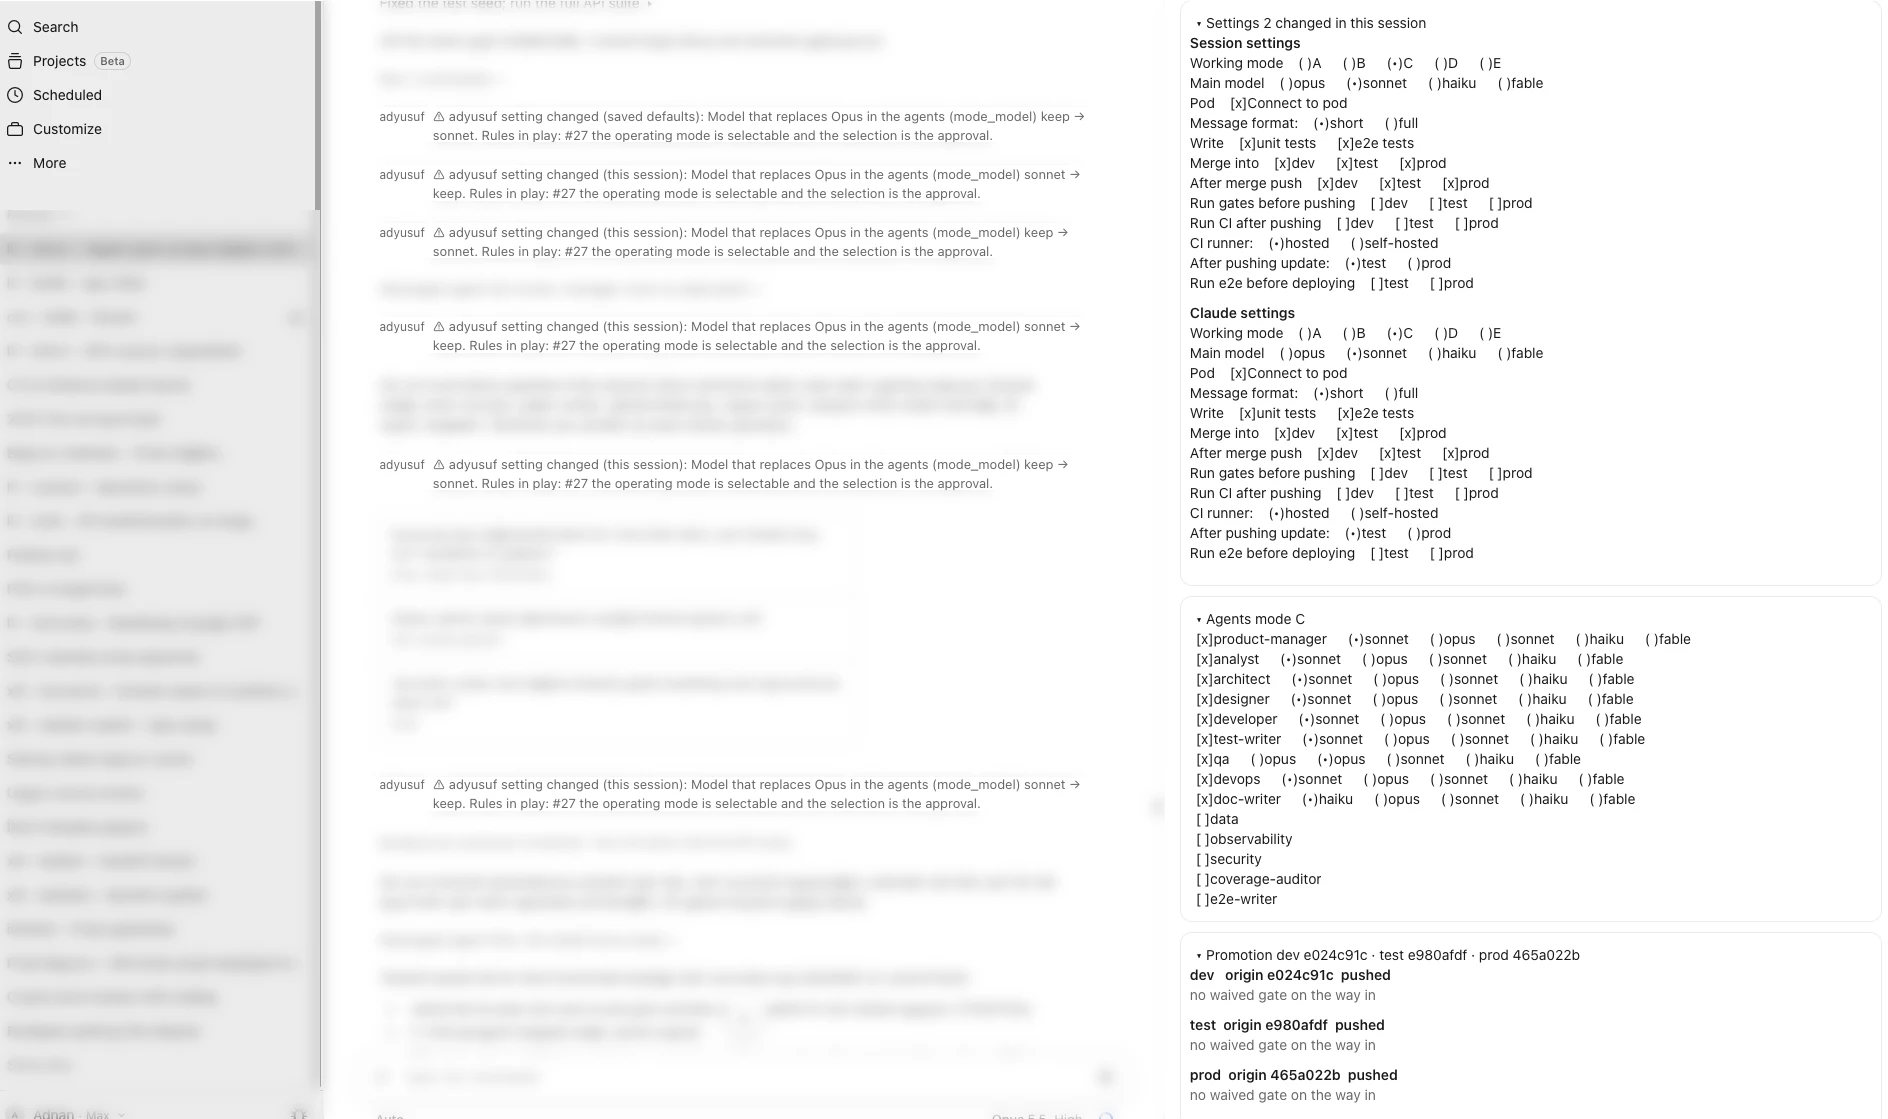
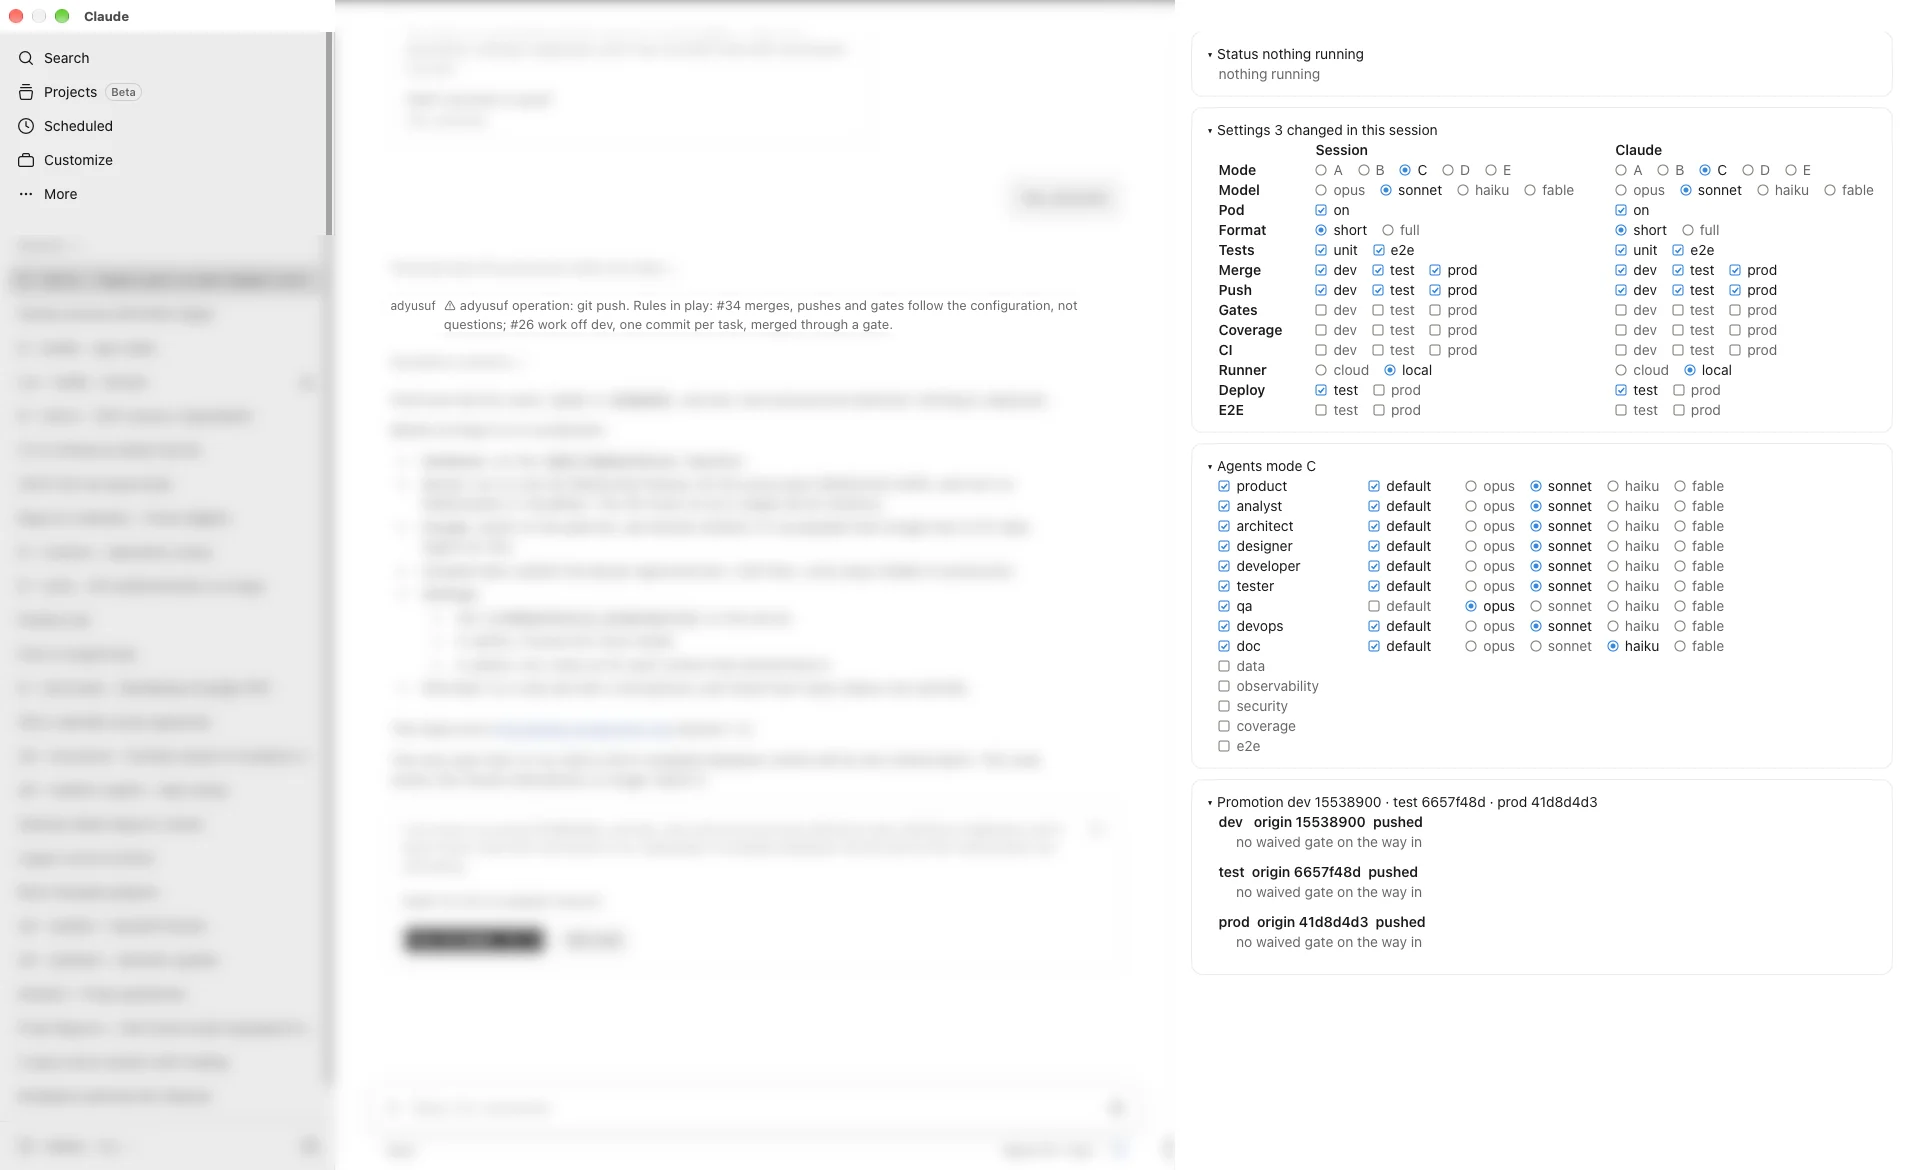
docs(readme): the panels screenshot shows the current pane
The new screenshot has the Status box, the one-table Settings, the Agents default
checkbox and an operation notice in the chat; the notes on what the old screenshot
was missing go.

diff --git a/README.md b/README.md
@@ -540,22 +540,20 @@ without reopening them. The plugin's mod draws them (`hooks/register.tsx`, `hook
 load mods, the command falls back to printing the same settings as a table and points you to `/adyusuf:config`
 ([`commands/panels.md`](commands/panels.md)).
 
-![The adyusuf pane in the right-hand rail: Settings, Agents and Promotion boxes, with the setting-change warnings in the chat on the left](docs/images/adyusuf-panels.webp)
+![The adyusuf pane in the right-hand rail: Status, Settings, Agents and Promotion boxes, with an operation notice in the chat on the left](docs/images/adyusuf-panels.webp)
 
 *What the screenshot shows.* The left two-thirds are the app's session list and the conversation, blurred on purpose
 (see [Anonymization](#anonymization)). The right-hand column is the `adyusuf` pane:
 
-- **Status** (added after the screenshot, the first box). The status table of a long run: what runs now, what runs
-  next, then item · state · measured figure (with its signal) · waiting on. Claude writes it at every step with
+- **Status — "nothing running".** The status table of a long run: what runs now, what runs next, then
+  item · state · measured figure (with its signal) · waiting on. Claude writes it at every step with
   `scripts/adyusuf_status.py`, and so does a background gate or promotion; the box re-reads it when a tool call returns
   and every 2 s when the file changed. It shows *nothing running* when the table is empty
   ([`standards/00-working-method.md`](standards/00-working-method.md) §10d).
-
-- **Settings — "2 changed in this session".** One table, one row per setting: the label in bold, then the
+- **Settings — "3 changed in this session".** One table, one row per setting: the label in bold, then the
   **Session** column, then the **Claude** column. *Session* is what this session runs on; a press there changes this
   session only. *Claude* holds the saved defaults in `~/.claude/adyusuf.json`, which every new session starts from; a
-  press there changes the defaults. (The screenshot still shows the older layout: two blocks, *Session settings* and
-  *Claude settings*, one under the other.) The summary counts the settings this session has changed away from its
+  press there changes the defaults. The summary counts the settings this session has changed away from its
   defaults. Each column has one width, so every row's options start at the same place. The engine has no native
   radio or checkbox, so the boxes build them. On the desktop each option has a radio (one of several) or checkbox
   (yes/no) icon, filled when chosen. In the terminal, which cannot draw SVG, the chosen option reads `[C]`, `[dev]`. On
@@ -571,10 +569,10 @@ load mods, the command falls back to printing the same settings as a table and p
     and runs no gate or CI wait. A gate set to no is recorded as `Gate-Waived` on the merge commit.
   - *Runner* (`cloud` = GitHub's runners, `local` = this machine's), *Deploy* (which environment a pushed update is
     deployed to) and *E2E* (run e2e before that deploy; rule #33).
-- **The chat lines `⚠ adyusuf setting changed …`.** Every change, made in a box, through `/adyusuf:config` or by hand,
-  is also written into the conversation. Each line says which layer changed (*this session* or *saved defaults*), the
-  key with its old → new value, and the rules it touches. The screenshot shows *Model* (`mode_model`) switched back
-  and forth between `keep` and `sonnet`.
+- **The chat lines `⚠ adyusuf …`.** Every settings change, made in a box, through `/adyusuf:config` or by hand, is
+  also written into the conversation as `⚠ adyusuf setting changed …`: which layer changed (*this session* or *saved
+  defaults*), the key with its old → new value, and the rules it touches. An operation that rules govern gets a line
+  too: the screenshot shows `⚠ adyusuf operation: git push` with the two rules in play, #34 and #26.
 - **Agents — "mode C".** One line per role: a checkbox with the role name (pressing the name switches the role on or
   off, as in Settings), a `default` checkbox, then the model as one radio group: `opus`, `sonnet`, `haiku`, `fable`. The
   nine on in the screenshot are mode C's team. Five roles show a short name: `product` (product-manager), `tester`
@@ -584,7 +582,7 @@ load mods, the command falls back to printing the same settings as a table and p
   `default` ticked means it runs on the model its file and *Model* give it; ticking `default` selects that model's
   radio, and choosing that model's radio ticks `default`. Choosing any other model unticks `default` and pins that
   model; unticking `default` pins the model it was running on. In the screenshot `qa` is pinned to `opus`.
-- **Promotion — "dev e024c91c · test e980afdf · prod 465a022b".** One block per `dev`/`test`/`prod` branch of the
+- **Promotion — "dev 15538900 · test 6657f48d · prod 41d8d4d3".** One block per `dev`/`test`/`prod` branch of the
   repository the session is in: the commit `origin` holds, then `pushed` or `N not pushed`. Below it, any
   `Gate-Waived` line on the commits waiting to come in from the stage before it (for `test`, what `origin/dev` has and
   `origin/test` does not yet), in orange. *No waived gate on the way in* means nothing waiting carries a waived gate.
@@ -592,12 +590,7 @@ load mods, the command falls back to printing the same settings as a table and p
   be read (`! …`, in Settings) or a waived gate (`waived …`, in Promotion). Dim: summaries, waiting and "nothing to
   report" lines, and the options that are not chosen. Bold: titles and row labels.
 
-The screenshot shows the pane before three changes. On 30/10/2026 *Deploy* became two checkboxes (test, prod) instead
-of a radio, and Settings gained a *Coverage* row per target (rule #29). On 01/11/2026 the `(•)`/`[x]` markers gave way
-to icons (desktop) or brackets (terminal) with the unchosen options faded, the labels were made bold, aligned and
-shortened (*Working mode* → *Mode*, *Run gates before pushing* → *Gates*, *CI runner* → *Runner* with `cloud`/`local`,
-…), five roles got short names, warnings turned orange, the bodies were indented, and an agent's first option reads
-`default` instead of a model name.
+The screenshot is of 01/11/2026 and shows the pane as it is now.
 
 ### Level 4 — run it live, the way I do
 
